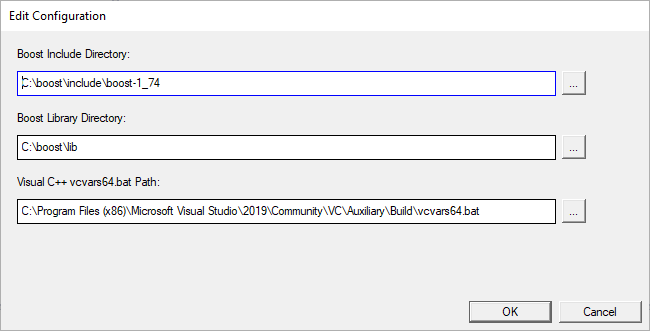
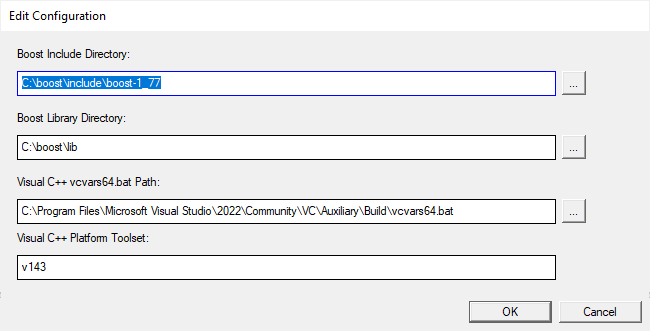
docs

diff --git a/wingstall/index.html b/wingstall/index.html
@@ -62,7 +62,7 @@
 
 	<p>
 		Wingstall is an installer generator tool for Windows x64 written in C++.
-		It generates a Visual C++ 2019 setup program that contains a binary installation package embedded 
+		It generates a Visual C++ 2022 setup program that contains a binary installation package embedded 
 		inside the setup executable as a Windows resource. 
 		The binary installation package is generated by Wingstall from an XML package description file 
 		created using a graphical <a href="package_editor.html">package editor</a>, or written manually by the package author.
@@ -77,7 +77,7 @@
 	
 	<ul>
 		<li>Windows 10 64-bit Operating System</li>
-		<li>Microsoft Visual Studio 2019 Community Edition with 'Desktop development with C++' workload installed</li>
+		<li>Microsoft Visual Studio 2022 Community Edition with 'Desktop development with C++' workload installed</li>
 		<li><a href="https://www.boost.org/">Boost C++ Libraries</a> installed.
 		If you need help building and installing Boost, take a look at
 		<a href="https://levelup.gitconnected.com/the-definite-guide-on-compiling-and-linking-boost-c-libraries-for-visual-studio-projects-c79464d7282d">this</a>
@@ -89,7 +89,7 @@
 	<h3 id="requirements_for_deployed_to">2.2 Requirements for the Computer to which a Package is to be Deployed</h3>
 	
 	<ul>
-		<li>Windows 10 64-bit Operating System with Visual C++ 2019 Runtime Libraries installed.<br/>
+		<li>Windows 10 64-bit Operating System with Visual C++ 2022 Runtime Libraries installed.<br/>
 		The runtime libraries might already be installed to the computer to which a package is to be deployed, 
 		but if this is not the case they can be downloaded from here:<br/>
 		<a href="https://support.microsoft.com/en-us/topic/the-latest-supported-visual-c-downloads-2647da03-1eea-4433-9aff-95f26a218cc0">
@@ -202,7 +202,7 @@
 	<p>
 		The generated installer application requires Administrator privileges because it writes to Windows registry under the HKEY_LOCAL_MACHINE key.
 		Therefore if you want to debug the setup application, you must first start Visual Studio with administrator privileges:
-		right-click the Visual Studio icon in the task bar, right-click the Visual Studio 2019 on the opened menu and select 'Run as Administrator' from the opened menu.
+		right-click the Visual Studio icon in the task bar, right-click the Visual Studio 2022 on the opened menu and select 'Run as Administrator' from the opened menu.
 		Then you can open the <strong>setup.vcxproj</strong> and start debugging it.
 	</p>
 
@@ -1629,7 +1629,7 @@ setup for package 'C:/work/wingstall/example/setup/deflate/example.bin' created
 	
 	<ul>
 		<li>Configure your Visual Studio as described in the <a href="#vs_config">Visual Studio Configuration</a> section.</li>
-		<li>Open 'Visual Studio 2019 x64 Native Tools Command Prompt'.</li>
+		<li>Open 'Visual Studio 2022 x64 Native Tools Command Prompt'.</li>
 		<li>Change to %WINGSTALL_ROOT%/ext/zlib-1.2.11/contrib/masmx64<sup><a href="footnotes.html#footnote-1">1</a></sup> directory</li>
 		<li>Run 'bld_ml64.bat'.
 		<li>Open <strong>wingstall.sln</strong> with Visual Studio.</li>

diff --git a/wingstall/package_editor.html b/wingstall/package_editor.html
@@ -200,6 +200,7 @@
 		<li>Boost include directory</li>
 		<li>Boost library directory</li>
 		<li>Visual C++ vcvars64.bat path</li>
+		<li>Visual C++ Platform Toolset</li>
 	</ul>
 	
 	<p>
@@ -213,15 +214,15 @@
 	</p>
 	
 	<ul>
-		<li>Select Windows Start menu and click Visual Studio 2019 folder.</li>
-		<li>Right-click the 'x64 Native Tools Command Prompt for VS 2019'</li>
+		<li>Select Windows Start menu and click Visual Studio 2022 folder.</li>
+		<li>Right-click the 'x64 Native Tools Command Prompt for VS 2022'</li>
 		<li>Select More | Open file location</li>
-		<li>Right-click the 'x64 Native Tools Command Prompt for VS 2019' in the File Explorer</li>
+		<li>Right-click the 'x64 Native Tools Command Prompt for VS 2022' in the File Explorer</li>
 		<li>Select Properties</li>
 		<li>The 'Target' text box contains "%comspec% /k" followed by the vcvars64.bat path:</li>
 		<img src="image/x64nativeToolsProperties.png"/>
 		<li>My 'Target' text box contains the following value:</br>
-		%comspec% /k "C:\Program Files (x86)\Microsoft Visual Studio\2019\Community\VC\Auxiliary\Build\vcvars64.bat"</br>
-		So the path is C:\Program Files (x86)\Microsoft Visual Studio\2019\Community\VC\Auxiliary\Build\vcvars64.bat</li>
+		%comspec% /k "C:\Program Files\Microsoft Visual Studio\2022\Community\VC\Auxiliary\Build\vcvars64.bat"</br>
+		So the path is C:\Program Files\Microsoft Visual Studio\2022\Community\VC\Auxiliary\Build\vcvars64.bat</li>
 	</ul>
 </body>

diff --git a/wingstall/rel/2.2.0/release.notes.html b/wingstall/rel/2.2.0/release.notes.html
@@ -1,0 +1,7 @@
+<h1>Wingstall 2.2.0 for Windows x64</h1>
+
+<h2>Release notes</h2>
+
+<ul>
+<li>Added support for Visual Studio 2022 (Platform toolset 'v143')</li>
+</ul>
